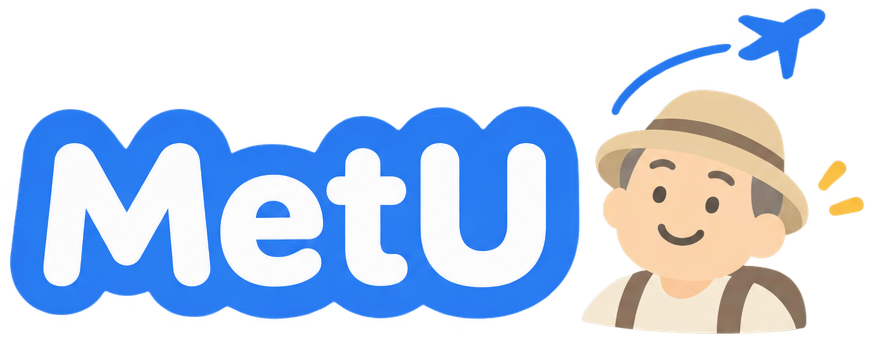
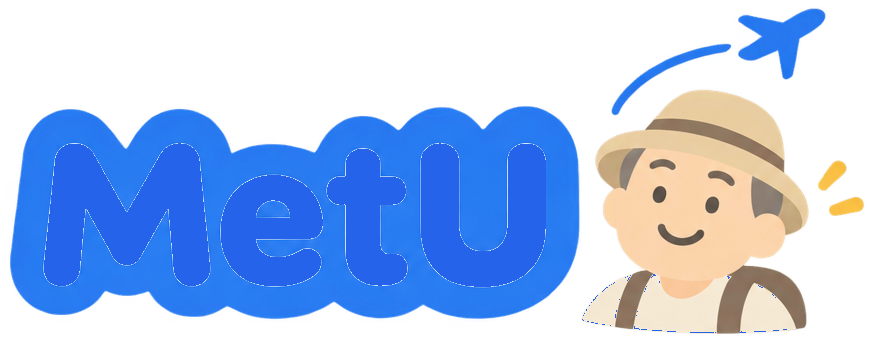
fix(brand): transparent lockup — drop dark chip, blue letter fill (#112)
White MetU fill recolored to mu-accent so the lockup reads on light chrome without a black pill.

Changed region(s): [[0.0309, 0.4023, 0.6487, 0.8333]]

diff --git a/components/ui/MetULogo.tsx b/components/ui/MetULogo.tsx
@@ -12,7 +12,7 @@ interface MetULogoProps {
 
 /** 앱 아이콘 (파비콘·PWA·로그인 히어로). */
 const ICON_SRC = "/brand/metu-icon.png";
-/** 웹 상단 가로 워드마크 + 마스코트 (검은 배경용 흰 글자). */
+/** 웹 상단 가로 워드마크 + 마스코트 (투명 배경, 밝은 바용 파란 글자). */
 const LOCKUP_SRC = "/brand/metu-lockup.png";
 
 export function MetULogo({
@@ -40,12 +40,11 @@ export function MetULogo({
     );
   }
 
-  // 흰 글자 락업 → 컴팩트 다크 칩. 탭하면 홈.
   return (
     <Link
       href="/"
       aria-label="MetU 홈"
-      className={`mu-focus inline-flex items-center rounded-mu-md bg-mu-fg px-2 py-0.5 ${className}`}
+      className={`mu-focus inline-flex items-center ${className}`}
     >
       <Image
         src={LOCKUP_SRC}
@@ -53,7 +52,7 @@ export function MetULogo({
         width={120}
         height={48}
         priority
-        className="h-7 w-auto max-w-[7.25rem] object-contain object-left"
+        className="h-8 w-auto max-w-[8rem] object-contain object-left"
       />
     </Link>
   );

diff --git a/public/sw.js b/public/sw.js
@@ -3,7 +3,7 @@
  * - Hashed static assets: cache-first
  * - POST /share-target: stash in share-inbox-v1 (client reads; no server image storage)
  */
-const CACHE_VERSION = "metu-static-v4";
+const CACHE_VERSION = "metu-static-v5";
 const STATIC_CACHE = CACHE_VERSION;
 const SHARE_INBOX = "share-inbox-v1";
 const SHARE_MAX_FILE_BYTES = 5 * 1024 * 1024;
